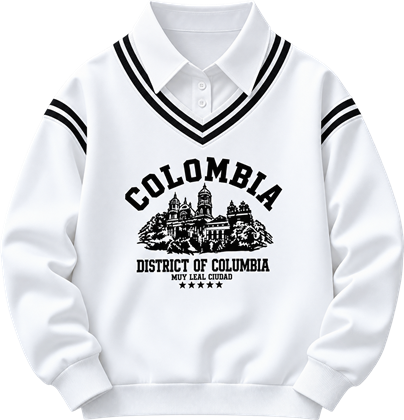
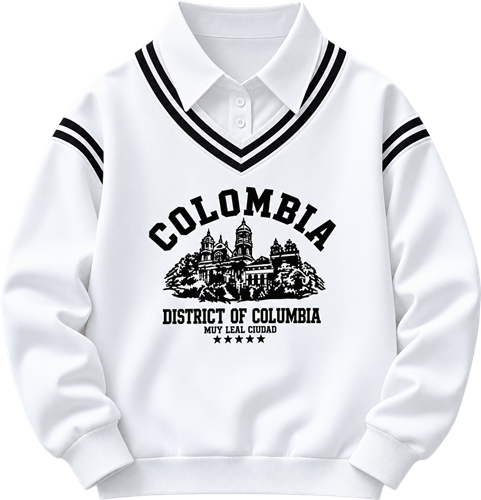
Cut the backgrounds off the car and the laptop
The headphones and the sweatshirt arrived already cut out - nothing was
removed from those. The car and the laptop came with studio backgrounds
baked into the photo, so those had to be keyed out here.

No background-removal tool is available on this machine, so this is a flood
fill inward from the frame, written in C# and run through System.Drawing.
Three things it needed beyond the fill itself:

- The fill eats every dark part of a dark subject. It took the car's
  windows, grille and most of both tyres, because those reach the background
  through gaps rather than differing from it in brightness. What separates
  them is position, not colour: a hole in the subject has subject on both
  sides of it horizontally AND vertically. The gap under the car between the
  wheels has bodywork above but open frame below, so it correctly stays
  transparent.
- That span fill leaves comb teeth wherever a row's endpoint was noise. A
  5x5 majority filter removes anything thinner than about two pixels while
  leaving a real edge where it is.
- A final flood of the transparent region from the frame reclaims anything
  walled in on the diagonal that whole rows and columns could not reach.

Verified by canvas: all four images are alpha 0 at every corner, 21-45% of
each frame transparent.

All four now need an alpha channel, which means WebP or PNG, and on
photographs PNG is ten times the bytes. WebP with a PNG onerror fallback -
[…]

diff --git a/src/modules/marketplace/MarketplaceView.js b/src/modules/marketplace/MarketplaceView.js
@@ -276,14 +276,22 @@ export function renderMarketplaceView(container) {
                              replace the text-only panels that stood in while
                              there was no artwork.
 
-                             The two studio photos ship as JPEG; the two
-                             cut-outs keep their alpha and stay PNG, because
-                             the mobile hero puts white behind the top of the
-                             slider column. All four are resized to about
-                             1.7x their largest rendered size - 490KB for the
-                             set, down from 7.1MB of originals. -->
+                             All four are cut out, so all four need an
+                             alpha channel - the mobile arc puts white behind
+                             the top of the slider column, and a rectangle
+                             would show there. That means WebP or PNG, and on
+                             photographs PNG is ten times the bytes: 115KB for
+                             the set against 1.2MB. The PNGs ship too, as the
+                             onerror fallback for anything too old to decode
+                             WebP.
+
+                             The car and the laptop arrived with studio
+                             backgrounds baked in and were keyed out here;
+                             the headphones and the sweatshirt came already
+                             cut out. -->
                         <div class="slide has-caption" data-slide="2">
-                            <img src="/slide-vehicles.jpg" alt="">
+                            <img src="/slide-vehicles.webp" alt=""
+                              onerror="this.onerror=null;this.src='/slide-vehicles.png'">
                             <div class="slide-caption text-center text-white">
                                 <h2>${t('ui_vehicles')}</h2>
                                 <h3>${t('ui_slide_cars_bikes')}</h3>
@@ -291,7 +299,8 @@ export function renderMarketplaceView(container) {
                         </div>
 
                         <div class="slide has-caption" data-slide="3">
-                            <img src="/slide-laptops.jpg" alt="">
+                            <img src="/slide-laptops.webp" alt=""
+                              onerror="this.onerror=null;this.src='/slide-laptops.png'">
                             <div class="slide-caption text-center text-white">
                                 <h2>${t('ui_slide_electronics')}</h2>
                                 <h3>${t('ui_slide_laptops')}</h3>
@@ -299,7 +308,8 @@ export function renderMarketplaceView(container) {
                         </div>
 
                         <div class="slide has-caption" data-slide="4">
-                            <img src="/slide-headphones.png" alt="">
+                            <img src="/slide-headphones.webp" alt=""
+                              onerror="this.onerror=null;this.src='/slide-headphones.png'">
                             <div class="slide-caption text-center text-white">
                                 <h2>${t('ui_slide_electronics')}</h2>
                                 <h3>${t('ui_slide_audio')}</h3>
@@ -307,7 +317,8 @@ export function renderMarketplaceView(container) {
                         </div>
 
                         <div class="slide has-caption" data-slide="5">
-                            <img src="/slide-fashion.png" alt="">
+                            <img src="/slide-fashion.webp" alt=""
+                              onerror="this.onerror=null;this.src='/slide-fashion.png'">
                             <div class="slide-caption text-center text-white">
                                 <h2>${t('ui_slide_fashion')}</h2>
                                 <h3>${t('ui_slide_clothing')}</h3>

diff --git a/src/modules/marketplace/heroSlider.test.ts b/src/modules/marketplace/heroSlider.test.ts
@@ -50,12 +50,28 @@ describe('hero slider', () => {
     expect(missing, `not in public/: ${missing.join(', ')}`).toEqual([]);
   });
 
-  it('also ships the fallback the first slide falls back to', () => {
-    // Slide 1 carries onerror="...src='/hero-section.png'". If that file goes
-    // missing the fallback fails silently and the slide stays blank.
-    const fallback = HOME.match(/this\.src='(\/[^']+)'/);
-    expect(fallback, 'onerror fallback not found').toBeTruthy();
-    expect(existsSync(`public${fallback![1]}`), `${fallback![1]} is missing`).toBe(true);
+  it('ships every file an onerror fallback points at', () => {
+    // The photo slides are WebP with a PNG behind them for browsers too old
+    // to decode it, and slide 1 falls back to a second banner. A fallback is
+    // by definition only exercised on the machines least likely to be
+    // testing, so a missing one is invisible until it is someone's blank
+    // slide.
+    const fallbacks = [...HOME.matchAll(/this\.src='(\/[^']+)'/g)].map((m) => m[1]);
+    expect(fallbacks.length, 'no onerror fallbacks found').toBeGreaterThanOrEqual(5);
+
+    const missing = fallbacks.filter((src) => !existsSync(`public${src}`));
+    expect(missing, `fallbacks not in public/: ${missing.join(', ')}`).toEqual([]);
+  });
+
+  it('gives every WebP slide a PNG fallback', () => {
+    const webps = [...SLIDER.matchAll(/<img src="(\/[^"]+\.webp)"/g)].map((m) => m[1]);
+    expect(webps.length, 'no WebP slides found').toBeGreaterThan(0);
+
+    for (const webp of webps) {
+      const png = webp.replace(/\.webp$/, '.png');
+      expect(SLIDER, `${webp} has no onerror fallback`).toContain(`this.src='${png}'`);
+      expect(existsSync(`public${png}`), `${png} is missing`).toBe(true);
+    }
   });
 
   it('gives every photo slide a caption, and every caption a photo', () => {

diff --git a/src/styles/main.css b/src/styles/main.css
@@ -4219,7 +4219,6 @@ table {
 
 .slide.has-caption img {
   max-height: 74%;
-  border-radius: 10px;
 }
 
 .slide .slide-caption {
